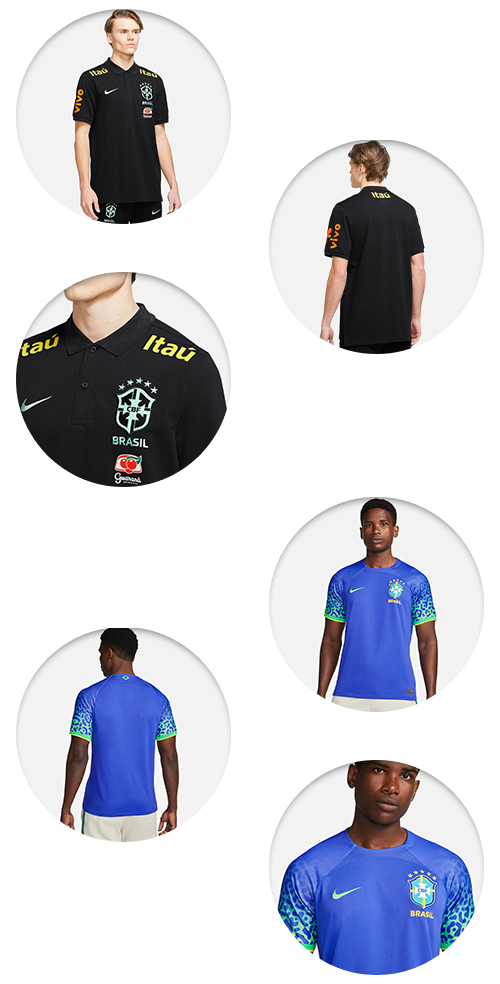
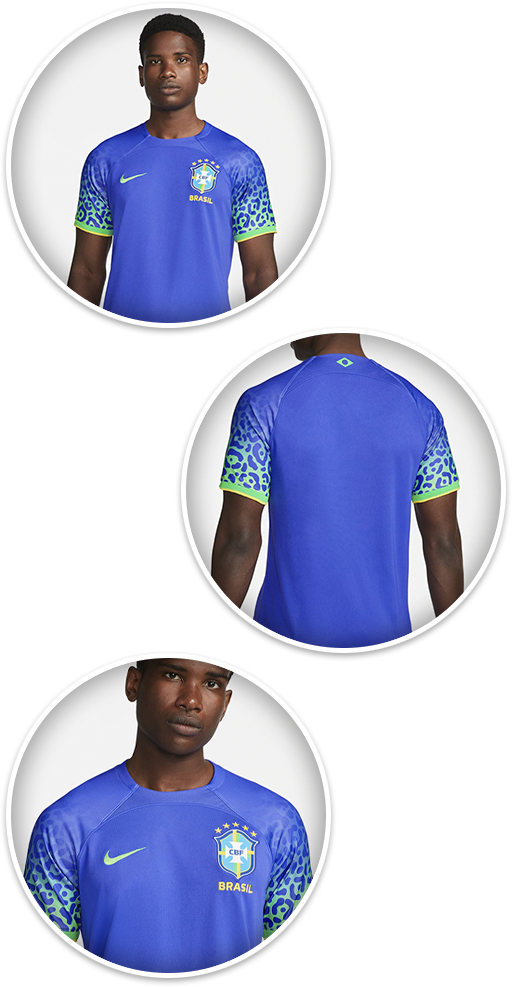
Add files via upload

diff --git a/index.html b/index.html
@@ -11,11 +11,7 @@
 <body>
     <main>
         <div id="div01">
-            <picture>
-                <source media="(max-width: 500px)" srcset="assets/media/img01.webp">
-                <source media="(min-width: 501px)" srcset="assets/media/img01-pc.webp">
-                <img class="mt0 mb0" src="assets/media/img01.webp" width="500" height="500" alt="camisa-brasil-2022">
-            </picture>
+            <img class="mt0 mb45n" src="assets/media/img01-b.webp" width="500" height="500" alt="camisa-brasil-2022">
             <div>
                 <h1 class="mt10n mb0">A copa está chegando... VOCÊ ESTÁ PREPARADO?</h1>
                 <h2>Esse é o momento de <u>torcer do jeito certo</u>: <b>com a nova Camisa do Brasil 2022</b>!</h2>
@@ -35,17 +31,12 @@
         <div id="div03" class="green tcenter">
             <div>
                 <img class="mt130n" height="403" width="500" src="assets/media/img03.webp">
-                <h3 class="mb0">É a hora de vestir a camisa...</h3>
-                <p class="mt0">...mas não podia ser qualquer uma, né?! Por isso caprichamos em cada detalhe!</p>
+                <h3 class="mb0">Chegou a hora de vestir a camisa...</h3>
+                <p class="mt0">...mas não podia ser qualquer uma, né?! Por isso caprichamos para te entregar o melhor produto possível por um preço acessível!</p>
                 <img class="m36" src="assets/media/img04.webp" width="500" height="500" alt="camisa-brasil-2022">
                 <p>Cada ponto exclusivamente pensando para trazer o melhor pro torcedor brasileiro!</p>
                 <a class="btn-scroll2" href="#div06">QUERO MINHA CAMISA!</a>
-                <img src="assets/media/img10.webp" height="77" width="300" alt="frete-gratis-camisa-brasil-2022">
-                <div class="m36">
-                    <h3 class="tcenter mb0">+ CORES</h3>
-                    <p class="tcenter mt0">da nova Camisa do Brasil</p>
-                </div>
-                <img class="mb130" src="assets/media/img06.webp" height="984" width="500" alt="camisa-brasil-2022">
+                <img class="mb130" src="assets/media/img10.webp" height="77" width="300" alt="frete-gratis-camisa-brasil-2022">
             </div>
         </div>
         <div id="div04">
@@ -54,15 +45,21 @@
                 <h3>Mais que uma camisa: um movimento</h3>
                 <p>Talvez você tenha visto o preço exorbitante que a camisa original tem.</p>
                 <p>Nesse momento tão delicado que nosso país vive, é um absurdo cobrar tanto.</p>
-                <p><b>Por isso, nós resolvemos democratizar o acesso a camisas da nossa seleção.</b></p>
-                <p>Nossas camisas são 1° linha da melhor qualidade possível e exatamente igual a original.</p>
+                <p>Nós acreditamos que mesmo de longe, a torcida joga junto e faz a diferença! Mas para isso ser possível, todos precisam ter acesso ao manto do Brasil com um preço popular, que caiba no bolso!</p>
+                <p><b>Por isso, nós decidimos democratizar esse movimento, para torcermos juntos pelo Hexa.</b></p>
+                <p>As nossas camisas são réplicas perfeitas 1ª Linha - COM A MELHOR QUALIDADE DO MERCADO - por um preço justo: apenas R$139,90 e o melhor: <strong>FRETE GRÁTIS PARA TODO BRASIL</strong></p>
                 <a class="btn-scroll" href="#div06">QUERO MINHA CAMISA!</a>
                 <img class="mb60" src="assets/media/img10.webp" height="77" width="300" alt="frete-gratis-camisa-brasil-2022">
             </div>
         </div>
-        <div id="div05" class="green">
+        <div id="div05" class="gray">
             <div>
-                <img class="mt70n" src="assets/media/img09.webp" height="129" width="156" alt="seta-para-baixo">
+                <img class="mt80n" src="assets/media/img09.webp" height="144" width="211" alt="seta-para-baixo">
+                <div class="m36">
+                    <h3 class="tcenter mb0">TAMBÉM DISPONÍVEL</h3>
+                    <p class="tcenter mt0">na cor azul!</p>
+                </div>
+                <img src="assets/media/img06.webp" height="984" width="500" alt="camisa-brasil-2022">
                 <h3 class="tcenter">CONFIRA MAIS DETALHES</h3>
                 <img class="mb18n" src="assets/media/img11.webp" height="500" width="500" alt="camisa-do-brasil-azul-2022">
                 <h3 class="mb18n tcenter">BANDEIRA MINIMALISTA NA GOLA</h3>
@@ -74,18 +71,52 @@
                 <img class="mb0" src="assets/media/img13.webp" height="423" width="500" alt="camisa-brasil-2022">
             </div>
             <div class="cta">
-                <script class="ymp-script" src="https://api.yampi.io/v2/cb-store/public/buy-button/P5PT27SCA1/js"></script>
+                <script class="ymp-script" src="https://api.yampi.io/v2/cb-store/public/buy-button/Q78N4XTJ8F/js"></script>
             </div>
             <div>
-                <p class="tcenter"><strong>Personalização disponível na finalização da compra.</strong></p>
+                <p class="tcenter mt0 mb0"><strong>Personalização disponível na finalização da compra.</strong></p>
+            </div>
+            <hr>
+            <div id="more-depoiments">
+                <div>
+                    <h3 class="tcenter mt0 mb0"><b>CONFIRA OS DEPOIMENTOS</b></h3>
+                    <p class="mt0 tcenter">arraste para o lado!</p>
+                    <div class="image-slider">
+                        <div class="card-slider">
+                            <div class="slider-image">
+                                <img src="assets/media/depoimentos/f5e7c6cb-abe4-432a-834e-4934d5ae82a7.jpg" class="thumb">
+                            </div>
+                        </div>
+                        <div class="card-slider">
+                            <div class="slider-image">
+                                <img src="assets/media/depoimentos/WhatsApp Image 2022-08-30 at 12.40.15.jpeg" class="thumb">
+                            </div>
+                        </div>
+                        <div class="card-slider">
+                            <div class="slider-image">
+                                <img src="assets/media/depoimentos/WhatsApp Image 2022-08-30 at 12.42.21.jpeg" class="thumb">
+                            </div>
+                        </div>
+                        <div class="card-slider">
+                            <div class="slider-image">
+                                <img src="assets/media/depoimentos/WhatsApp Image 2022-08-31 at 13.03.38.jpeg" class="thumb">
+                            </div>
+                        </div>
+                        <div class="card-slider">
+                            <div class="slider-image">
+                                <img src="assets/media/depoimentos/WhatsApp Image 2022-08-31 at 13.06.51.jpeg" class="thumb">
+                            </div>
+                        </div>
+                    </div>
+                </div>
             </div>
         </div>
         <div id="div07">
             <div>
-                <img class="mt170n mb0" src="assets/media/img07.webp" alt="garantia-7-dias">
+                <img class="mt170n mb0" src="assets/media/img07.webp" height="438" width="500" alt="garantia-7-dias">
                 <p class="mt10n"><strong>A nossa loja, pensando em você e no seu bem-estar, lhe oferece 100% de segurança na sua compra.</strong></p>
                 <p>E se por algum motivo você não gostar, dentro de 07 dias te devolveremos todo o seu dinheiro.</p>
-                <img src="assets/media/img08.webp" alt="camisa-brasil-2022-pronta-entrega">
+                <img src="assets/media/img08.webp" height="91" width="476" alt="camisa-brasil-2022-pronta-entrega">
                 <ul>
                     <li>Produto com garantia.</li>
                     <li>Você paga somente o valor descrito em nosso site, não haverá cobranças adicionais de taxas ou impostos.</li>

diff --git a/assets/main.css b/assets/main.css
@@ -1,4 +1,5 @@
 @charset "UTF-8";
+@import url('https://fonts.googleapis.com/css2?family=Montserrat:wght@400;600;700&display=swap');
 
 html {
     font-size: 62.5%;
@@ -78,10 +79,6 @@ div.cta {
     justify-content: center;
 }
 
-div#div06 p {
-    margin-bottom: 17.25rem !important;
-}
-
 .ymp-image {
     border-radius: 15px !important;
 }
@@ -159,8 +156,8 @@ footer a {
     margin-top: -1.8rem !important;
 }
 
-.mt70n {
-    margin-top: -7rem !important;
+.mt80n {
+    margin-top: -8rem !important;
 }
 
 .mt130n {
@@ -277,9 +274,55 @@ a.btn-scroll2 {
     box-shadow: 0px 5px 10px #00000045;
 }
 
+/* + Depoimentos */
+
+div#more-depoiments {
+    padding-bottom: 15rem;
+}
+
+.product-category {
+    padding: 0 10vw;
+    font-size: 30px;
+    font-weight: 500;
+    margin-bottom: 40px;
+    text-transform: capitalize;
+}
+
+.image-slider {
+    display: flex;
+    overflow-x: auto;
+    scroll-behavior: smooth;
+}
+
+.image-slider::-webkit-scrollbar {
+    display: none;
+}
+
+.card-slider {
+    flex: 0 0 auto;
+    width: 75%;
+    height: 100%;
+    margin-right: 40px;
+}
+
+.slider-image {
+    position: relative;
+    height: 100%;
+    overflow: hidden;
+
+}
+
+.thumb {
+    width: 100%;
+    height: 100%;
+    object-fit: cover;
+    border-radius: 15px;
+}
+
 /* responsividade */
 
 @media (max-width:500px) {
+
     div#div01 {
         background-image: url(media/bg-div01.webp);
         background-position: center;
